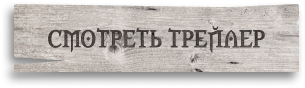
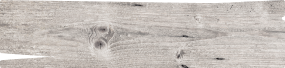
fix button animation

diff --git a/css/present.css b/css/present.css
@@ -16,13 +16,42 @@
 }
 
 .present__btn {
+    position: relative;
     display: block;
     width: 285px;
     height: 68px;
+    margin-top: 54px;
+}
+
+.present__btn::before {
+    content: '';
+    position: absolute;
+    top: 0;
+    right: 0;
+    bottom: 0;
+    left: 0;
     background-image: url('../img/button.png');
-    filter: drop-shadow(0px 4px 4px rgba(0, 0, 0, 0.25));
-    border-radius: 2px;
+    background-repeat: no-repeat;
     background-position: center;
     background-size: cover;
-    margin-top: 54px;
+    border-radius: 2px;
+    filter: drop-shadow(-4px 6px 10px rgba(10, 10, 10, 0.51));
+    transition: filter .3s ease-in-out;
+}
+
+.present__btn::after {
+    content: '';
+    position: absolute;
+    top: 10px;
+    right: 0;
+    bottom: 0;
+    left: 0;
+    background-image: url('../img/text-button.png');
+    background-repeat: no-repeat;
+    background-position: center;
+}
+
+.present__btn:hover::before {
+    filter: drop-shadow(-4px 6px 10px rgba(10, 10, 10, 0.51))
+        brightness(1.2);
 }
